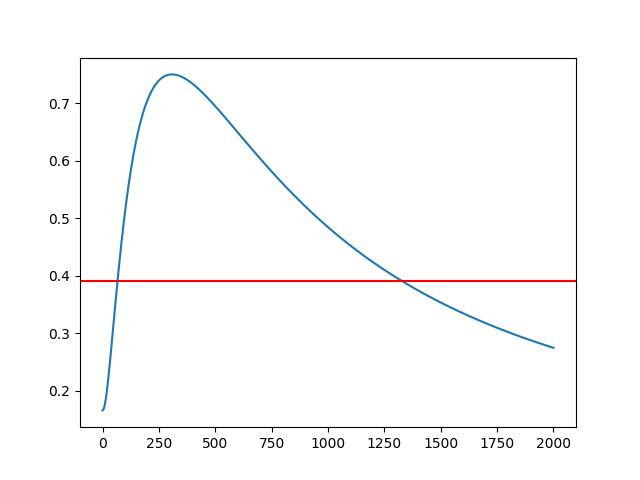
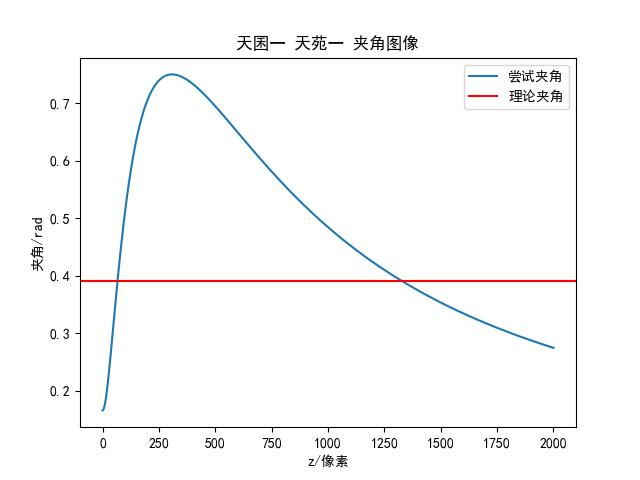
v0.2: 坐标变换工具 | 完善README | 增加examples | 微调文件结构

diff --git a/dev/dual_star_positioning.py b/dev/dual_star_positioning.py
@@ -1,0 +1,90 @@
+"""双星定位法公式推导"""
+
+from sympy import Symbol, Eq, sin, cos, print_latex, solve, symbols
+from sympy.vector import CoordSys3D, Vector
+from sympy.abc import x, y, z
+
+N = CoordSys3D('N')
+
+
+def vector(x, y, z) -> Vector:
+    return x * N.i + y * N.j + z * N.k
+
+
+def GP2vector(phi: Symbol, lam: Symbol) -> Vector:
+    """
+    GP经纬度转向量
+    :param phi: 纬度
+    :param lam: 经度
+    :return: 向量
+    """
+    x = cos(phi) * cos(lam)
+    y = cos(phi) * sin(lam)
+    z = sin(phi)
+    return vector(x, y, z)
+
+
+def get_plane(phi: Symbol, lam: Symbol, theta: Symbol) -> Eq:
+    """
+    求解一颗星星平面方程
+    :param phi: GP纬度
+    :param lam: GP经度
+    :param theta: 高度角，与天顶角互余
+    :return: 平面的方程
+    """
+    # 星星的单位方向向量
+    n = GP2vector(phi, lam)
+    # 求出以nsinθ为法向量且经过点nsinθ的平面方程
+    normal_vector = n * sin(theta)  # 法向量
+    components = normal_vector.components
+    a, b, c = components[N.i], components[N.j], components[N.k]  # 点nsinθ的坐标，同时也是平面的a,b,c
+    d = Symbol('d')
+    plane = Eq(a * x + b * y + c * z, d)  # 平面方程
+    # 将点代入求解
+    plane0 = plane.subs({x: a, y: b, z: c})
+    d0 = solve(plane0, d)[0]
+    plane = plane.subs({d: d0})
+    return plane
+
+
+# 一颗星星
+phi = Symbol('\\phi')
+lam = Symbol('\\lambda')
+theta = Symbol('\\theta')
+plane = get_plane(phi, lam, theta)
+print('Plane')
+print_latex(plane)
+
+# 两个平面方程
+A1, B1, C1, D1 = symbols('A1 B1 C1 D1')
+plane1 = Eq(A1 * x + B1 * y + C1 * z, D1)
+A2, B2, C2, D2 = symbols('A2 B2 C2 D2')
+plane2 = Eq(A2 * x + B2 * y + C2 * z, D2)
+# 地球（单位球）方程
+earth = Eq(x ** 2 + y ** 2 + z ** 2, 1)
+print('Equations')
+print_latex(plane1)
+print_latex(plane2)
+print_latex(earth)
+
+# 联立求解
+solution1, solution2 = solve([plane1, plane2, earth], [x, y, z], dict=True)
+print('Solution Latex')
+print_latex(solution1[x])
+print_latex(solution1[y])
+print_latex(solution1[z])
+print_latex(solution2[x])
+print_latex(solution2[y])
+print_latex(solution2[z])
+
+print('Solution')
+print(solution1[x])
+print(solution1[y])
+print(solution1[z])
+print(solution2[x])
+print(solution2[y])
+print(solution2[z])
+
+print(solution1[x] == solution2[x])
+print(solution1[y] == solution2[y])
+print(solution1[z] == -solution2[z])

diff --git a/dev/monotonicity.py b/dev/monotonicity.py
@@ -3,6 +3,11 @@
 """
 import numpy as np
 import matplotlib.pyplot as plt
+from pylab import mpl
+
+# 解决中文乱码
+mpl.rcParams['font.sans-serif'] = ['SimHei']
+plt.rcParams['axes.unicode_minus'] = False
 
 
 def vector_angle(v1: np.ndarray, v2: np.ndarray) -> np.float64:
@@ -33,9 +38,15 @@ theta0 = 0.3906931771730551
 # 绘制函数图像
 x1 = np.linspace(0, 2000, 2000)
 y1 = [try_angle(z) for z in x1]
-plt.plot(x1, y1)
+plt.plot(x1, y1, label='尝试夹角')
 # 绘制理论夹角水平线
-plt.axhline(theta0, color='r')
+plt.axhline(theta0, color='r', label='理论夹角')
+
+# 添加信息
+plt.legend()
+plt.title('天囷一 天苑一 夹角图像')
+plt.xlabel('z/像素')
+plt.ylabel('夹角/rad')
 
 plt.savefig('../assets/monotonicity.jpg')
 plt.show()

diff --git a/src/ct.py b/src/ct.py
@@ -1,0 +1,26 @@
+#
+# Created by MC着火的冰块 on 2024/8/1
+#
+# ct: Coordinate Transformation 坐标变换
+#
+
+def pretty(num: float) -> int | float:
+    """若小数点后为0，转为int"""
+    return int(num) if num.is_integer() else num
+
+
+def main() -> None:
+    print('请右键照片，编辑，进入Windows自带的画图软件')
+
+    print('请输入照片的宽和高（用空格隔开）：')
+    width, height = map(int, input('>>>').split())
+
+    while True:
+        print('星星的像素位置（用空格隔开）：')
+        x, y = map(int, input('>>>').split())
+        print('坐标：')
+        print(pretty(x - width / 2), pretty(y - height / 2))
+
+
+if __name__ == '__main__':
+    main()

diff --git a/src/pap.py b/src/pap.py
@@ -5,7 +5,7 @@ import mark
 import get_z
 import get_zenith
 import calc
-
+import ct
 
 parser = argparse.ArgumentParser(description='照片测星定位(Photo Astrological Positioning)')
 
@@ -24,6 +24,8 @@ zenith_parser.add_argument('-c', '--colour', default='green', help='直线颜色
 
 calc_parser = subparsers.add_parser('calc', help='定位计算')
 
+ct_parser = subparsers.add_parser('ct', help='坐标变换工具')
+
 args = parser.parse_args()
 
 match args.command:
@@ -37,3 +39,5 @@ match args.command:
         get_zenith.main(args.image_path, args.colour)
     case 'calc':
         calc.main()
+    case 'ct':
+        ct.main()

diff --git a/src/mark.py b/src/mark.py
@@ -83,7 +83,7 @@ def main(read_path: Optional[str]) -> None:
         with open(read_path, 'r', encoding='utf-8') as f:
             text = f.readlines()
             for line in text:
-                name, x, y, hour_angle, declination = line.split(' ')
+                name, x, y, hour_angle, declination = line.split()
                 coordinate = (float(x), float(y))
                 calculate_and_write(name, coordinate, hour_angle, declination)
         return
@@ -101,4 +101,4 @@ def main(read_path: Optional[str]) -> None:
 
 
 if __name__ == '__main__':
-    main('../examples/stars.txt')
+    main('../examples/issue1_1/stars.txt')

diff --git a/src/get_zenith.py b/src/get_zenith.py
@@ -57,4 +57,4 @@ def main(image_path: str, c: str) -> None:
 
 
 if __name__ == '__main__':
-    main('../examples/lines.jpg', 'green')
+    main('../examples/GaoYaDiaoQiu/lines.jpg', 'green')

diff --git a/README.md b/README.md
@@ -25,9 +25,9 @@ pap mark -h
 ...
 ```
 
-下面以`examples/1.jpg`为例进行演示（拍摄时间2023-11-02 23:52）。
+下面以`examples/GaoYaDiaoQiu/1.jpg`为例进行演示（拍摄时间2023-11-02 23:52）。
 
-![](examples/1.jpg "演示")
+![](examples/GaoYaDiaoQiu/1.jpg "演示")
 
 ### 0. 初始化
 
@@ -41,9 +41,19 @@ pap init
 
 在照片上标记星星的名字和坐标（以图片**正中心**为原点，向右为x轴正方向，**向下**为y轴正方向）。
 
+一般处理图像时，都是以左上角为原点，但这里要以图片正中心为原点。坐标计算太麻烦？`pap ct`打开坐标变换工具！
+
 ![](assets/marked.jpg "天体辨识与照片坐标的测量")
 
-在星图软件中查找出**0°,0°处，拍摄时**它们的时角和赤纬。
+在星图软件中查找出**0°, 0°处，拍摄时**它们的时角和赤纬。
+
+**0°, 0°处！！！拍摄时！！！虽然一般是默认的，但还是检查下时间是否为UTC+8！！！**
+
+**0°, 0°处！！！拍摄时！！！虽然一般是默认的，但还是检查下时间是否为UTC+8！！！**
+
+**0°, 0°处！！！拍摄时！！！虽然一般是默认的，但还是检查下时间是否为UTC+8！！！**
+
+**重要的事情说三遍！！！**
 
 ![](assets/stellarium.jpeg "在星图软件中读取时角和赤纬")
 
@@ -76,7 +86,7 @@ pap mark
 然后运行：
 
 ```commandline
-pap mark -r examples/stars.txt
+pap mark -r examples/GaoYaDiaoQiu/stars.txt
 ```
 
 ### 2. 像素焦距
@@ -93,12 +103,12 @@ pap z
 
 先将照片中指向天顶的直线用**纯**红色、绿色或蓝色（推荐绿色）标注出来，长度至少50像素。
 
-![](examples/lines.jpg "标注直线")
+![](examples/GaoYaDiaoQiu/lines.jpg "标注直线")
 
 然后运行：
 
 ```commandline
-pap zenith examples/lines.jpg --colour=green
+pap zenith examples/GaoYaDiaoQiu/lines.jpg --colour=green
 ```
 
 程序会很快计算出距离这些直线总距离最近的点。
@@ -166,7 +176,7 @@ $$
 对于在照片上不同象限中的星星，尝试夹角关于 $z$ 单调递减；
 对于同一象限内的星星，增减性大致如下图，其中后一个交点是我们想要的：
 
-![](assets/monotonicity.jpg "天囷一与天苑一的尝试夹角的增减性")
+![](assets/monotonicity.jpg "天囷一 天苑一 夹角图像")
 
 任选两颗星星，不断改变 $z$ ，直到尝试夹角与理论夹角可以看作相等了，我们就试出了 $z$ 的值，多次计算取平均值。
 
